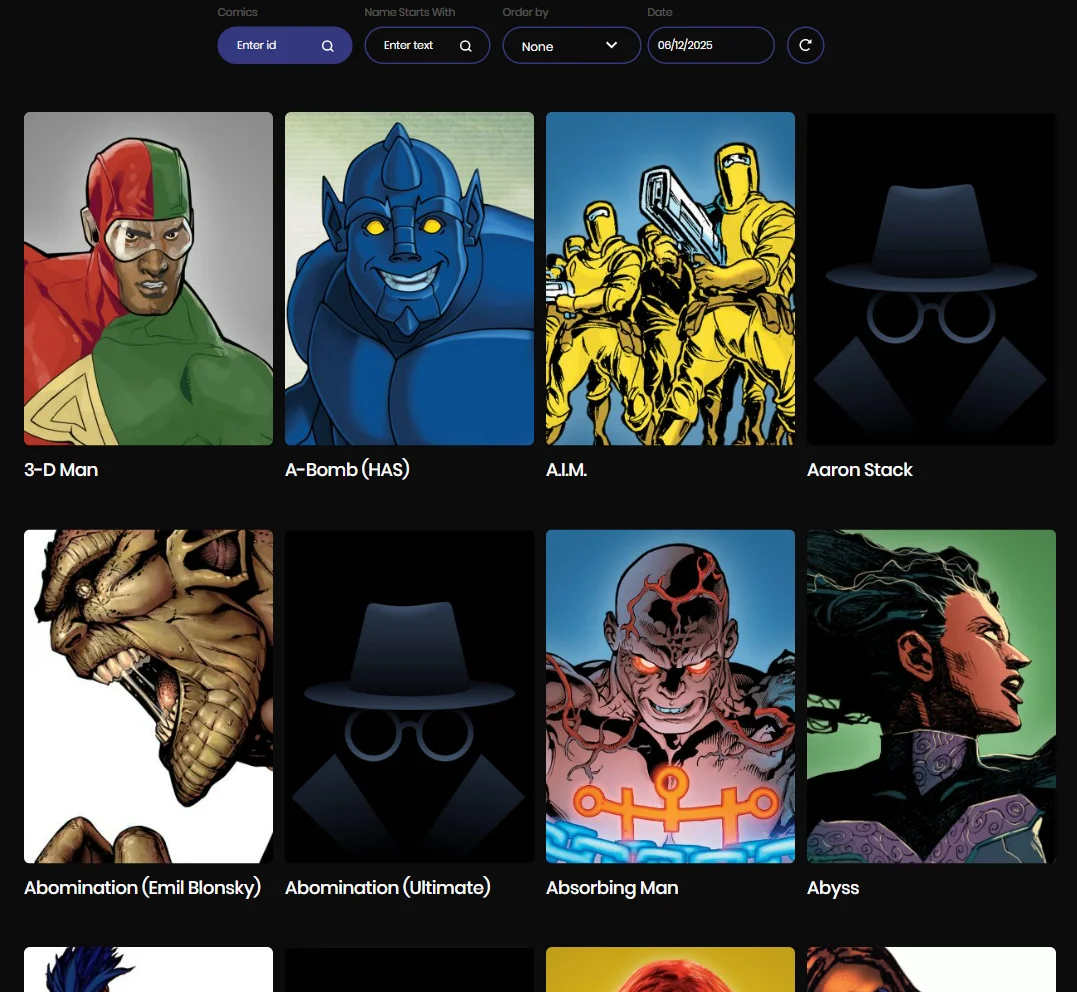
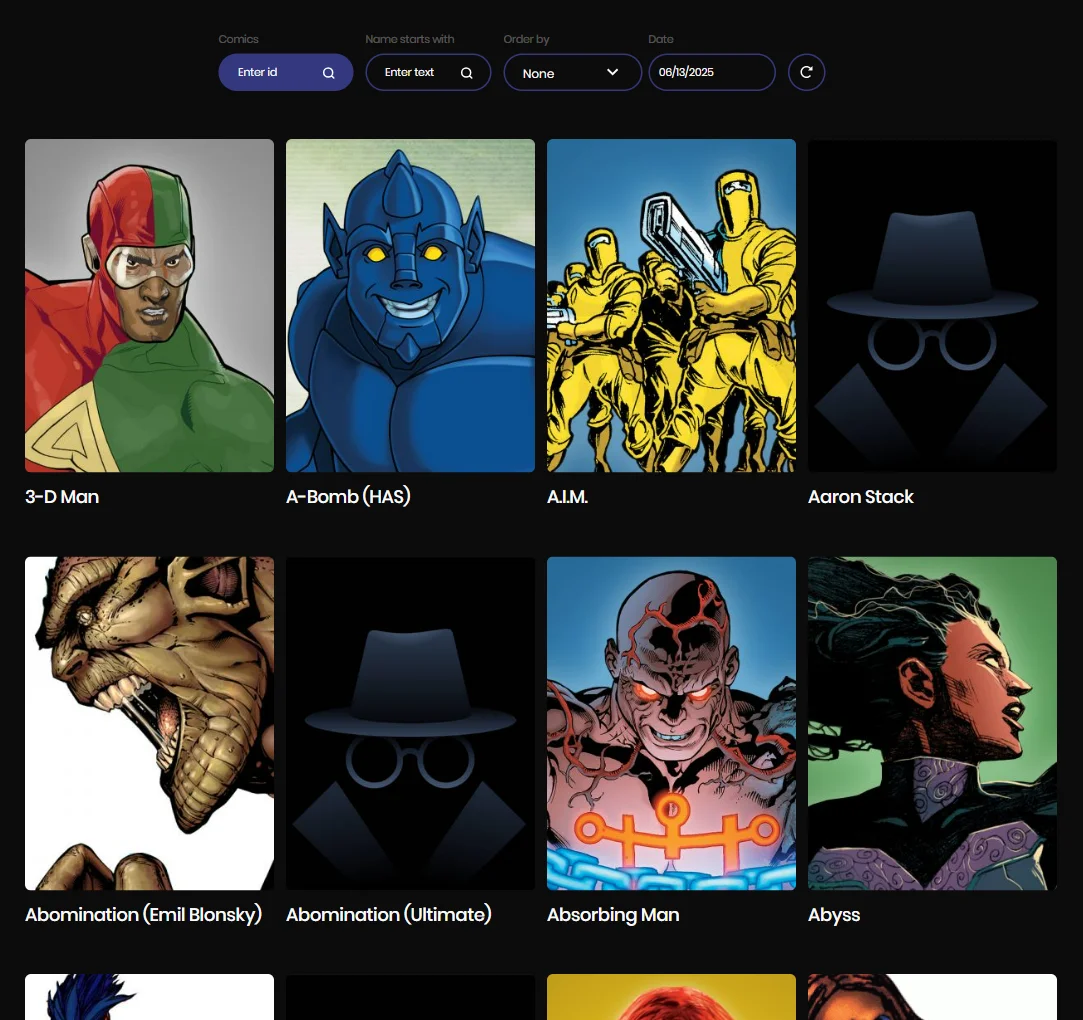
Update styles for active item in random characters slider

diff --git a/src/index.css b/src/index.css
@@ -156,8 +156,8 @@ main {
   }
 }
 
-.custom-border:hover::before,
-.custom-border:focus-visible::before {
+.custom-border::before,
+.custom-border::before {
   opacity: 1;
 }
 .link::after {
@@ -369,10 +369,10 @@ input[type="number"] {
 
 .page-link-prev,
 .page-link-next {
-  @apply bg-accentColor border-transparent;
+  @apply border-transparent bg-accentColor;
 }
 .active-pg .page-link {
-  @apply border-accentColor border-2;
+  @apply border-2 border-accentColor;
 }
 .page-item.disabled .page-link,
 .page-link:disabled {
@@ -384,7 +384,7 @@ input[type="number"] {
   @apply !-left-8 md:!left-auto;
 }
 .react-datepicker__input-container input {
-  @apply border-accentColor relative h-[46px] w-[158px] cursor-pointer rounded-[100px] border-[2px] bg-transparent py-3.5 pl-6 text-[14px] leading-[1.29] text-[#fafafa] outline-none transition duration-300 placeholder:text-primaryTextColor hover:border-primaryTextColor focus-visible:border-primaryTextColor md:h-[50px] md:w-[120px] md:pl-3 lg:w-[170px];
+  @apply relative h-[46px] w-[158px] cursor-pointer rounded-[100px] border-[2px] border-accentColor bg-transparent py-3.5 pl-6 text-[14px] leading-[1.29] text-[#fafafa] outline-none transition duration-300 placeholder:text-primaryTextColor hover:border-primaryTextColor focus-visible:border-primaryTextColor md:h-[50px] md:w-[120px] md:pl-3 lg:w-[170px];
 }
 .react-datepicker {
   @apply !rounded-[30px] !border-none !bg-[#171717] !text-primaryTextColor;
@@ -397,7 +397,7 @@ input[type="number"] {
   @apply !text-primaryTextColor;
 }
 .react-datepicker__day {
-  @apply hover:!bg-accentColor !text-primaryTextColor transition duration-300;
+  @apply !text-primaryTextColor transition duration-300 hover:!bg-accentColor;
 }
 .react-datepicker__day--keyboard-selected {
   @apply !bg-accentColor;

diff --git a/src/components/SearchInput.tsx b/src/components/SearchInput.tsx
@@ -25,7 +25,7 @@ export const SearchInput = ({
       {label}
       <input
         type="text"
-        className={`border-accentColor h-[46px] w-full rounded-[1000px] border-2 py-3.5 pl-6 pr-9 text-[12px] leading-[1.17] text-primaryTextColor outline-none transition duration-300 placeholder:text-primaryTextColor focus-visible:border-primaryTextColor md:h-[50px] md:py-4 md:pr-6 md:text-[14px] md:leading-[1.29] lg:z-[1] ${className}`}
+        className={`h-[46px] w-full rounded-[1000px] border-2 border-accentColor py-3.5 pl-6 pr-9 text-[12px] leading-[1.17] text-primaryTextColor outline-none transition duration-300 placeholder:text-primaryTextColor focus-visible:border-primaryTextColor md:h-[50px] md:py-4 md:pr-10 md:text-[14px] md:leading-[1.29] lg:z-[1] ${className}`}
         {...register(name)}
         {...props}
       />
@@ -33,7 +33,7 @@ export const SearchInput = ({
         id="search"
         width={18}
         height={18}
-        className="absolute bottom-1.5 right-[18px] z-[1] -translate-y-1/2 fill-transparent stroke-white md:right-6 lg:h-[18px] lg:w-[18px]"
+        className="absolute bottom-1.5 right-4 z-[1] -translate-y-1/2 fill-transparent stroke-white md:right-6 lg:h-[18px] lg:w-[18px]"
       />
     </label>
   );

diff --git a/src/components/Filters.tsx b/src/components/Filters.tsx
@@ -58,7 +58,7 @@ export const Filters = () => {
             labelClassName="md:w-[180px]"
           />
           <SearchInput
-            label="Name Starts With"
+            label="Name starts with"
             name="nameStartsWith"
             placeholder="Enter text"
             className="bg-transparent"
@@ -81,7 +81,7 @@ export const Filters = () => {
       </div>
       <button
         type="button"
-        className="border-accentColor flex h-[46px] items-center justify-center gap-4 rounded-full border-2 bg-transparent p-1 transition duration-300 hover:border-primaryTextColor focus-visible:border-primaryTextColor md:mb-2 md:h-[40px] md:w-[40px] lg:m-0 lg:h-[50px] lg:w-[50px]"
+        className="flex h-[46px] items-center justify-center gap-4 rounded-full border-2 border-accentColor bg-transparent p-1 transition duration-300 hover:border-primaryTextColor focus-visible:border-primaryTextColor md:mb-2 md:h-[40px] md:w-[40px] lg:m-0 lg:h-[50px] lg:w-[50px]"
         onClick={removeAllSearchParams}
       >
         <span className="md:hidden">Reset filters</span>{" "}

diff --git a/src/components/SortDropdown.tsx b/src/components/SortDropdown.tsx
@@ -56,7 +56,7 @@ export const SortDropdown = () => {
         Order by
       </p>
       <div
-        className={`border-accentColor relative h-[46px] w-full cursor-pointer rounded-[100px] border-[2px] bg-transparent py-3.5 pl-6 text-[14px] leading-[1.29] text-[#fafafa] transition duration-300 hover:border-primaryTextColor md:h-[50px] md:py-[16px] md:text-[16px] md:leading-[1.12] ${isDropdownOpen ? "!border-primaryTextColor" : ""}`}
+        className={`relative h-[46px] w-full cursor-pointer rounded-[100px] border-[2px] border-accentColor bg-transparent py-3.5 pl-6 text-[14px] leading-[1.29] text-[#fafafa] transition duration-300 hover:border-primaryTextColor md:h-[50px] md:py-[16px] md:text-[16px] md:leading-[1.12] ${isDropdownOpen ? "!border-primaryTextColor" : ""}`}
         onClick={toggleDropdown}
       >
         {selectedLabel}

diff --git a/src/components/RandomCharactersSlider.tsx b/src/components/RandomCharactersSlider.tsx
@@ -89,8 +89,8 @@ export const RandomCharactersSlider = ({
             {characters.map((character, index) => (
               <li
                 key={character.id}
-                className={`border-[rgba(250, 250, 250, 0.2)] custom-border group relative cursor-pointer border-b pb-[32px] transition duration-100 ${
-                  character.id === activeCharacter.id ? "text-accentColor" : ""
+                className={`border-[rgba(250, 250, 250, 0.2)] relative cursor-pointer border-b pb-[32px] transition duration-150 hover:text-accentColor focus-visible:text-accentColor ${
+                  character.id === activeCharacter.id ? "custom-border" : ""
                 }`}
                 onClick={() => handleCharacterClick(character, index)}
               >

diff --git a/index.html b/index.html
@@ -2,7 +2,7 @@
 <html lang="en">
   <head>
     <meta charset="UTF-8" />
-    <link rel="icon" type="image/png" href="/favicon.png" />
+    <link rel="icon" type="image/webp" href="/favicon.webp" />
     <meta name="viewport" content="width=device-width, initial-scale=1.0" />
     <meta
       name="description"
